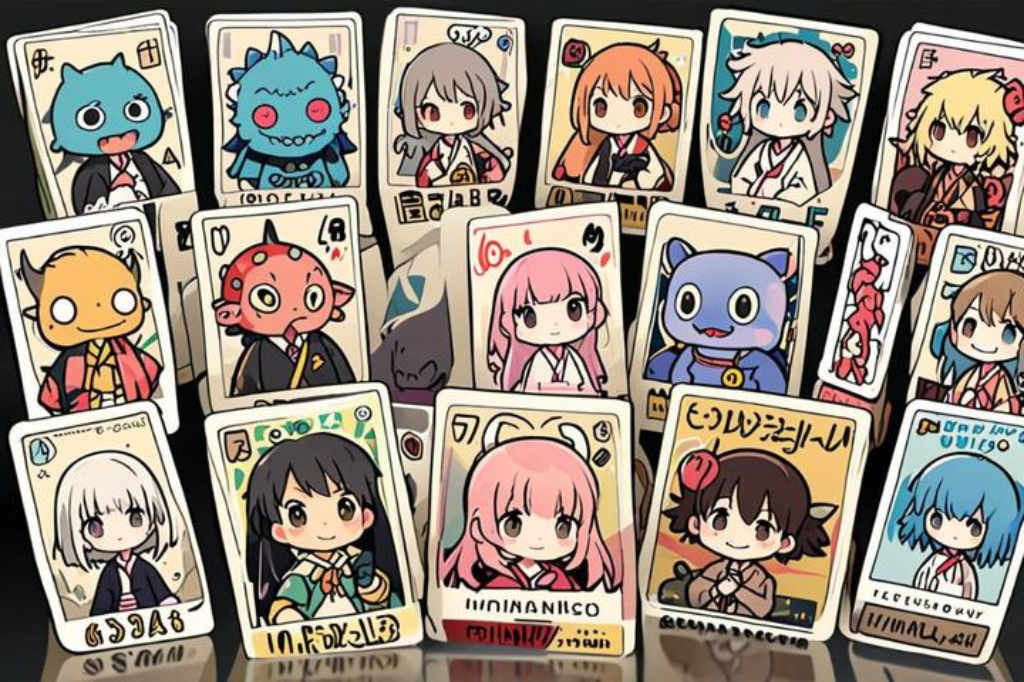
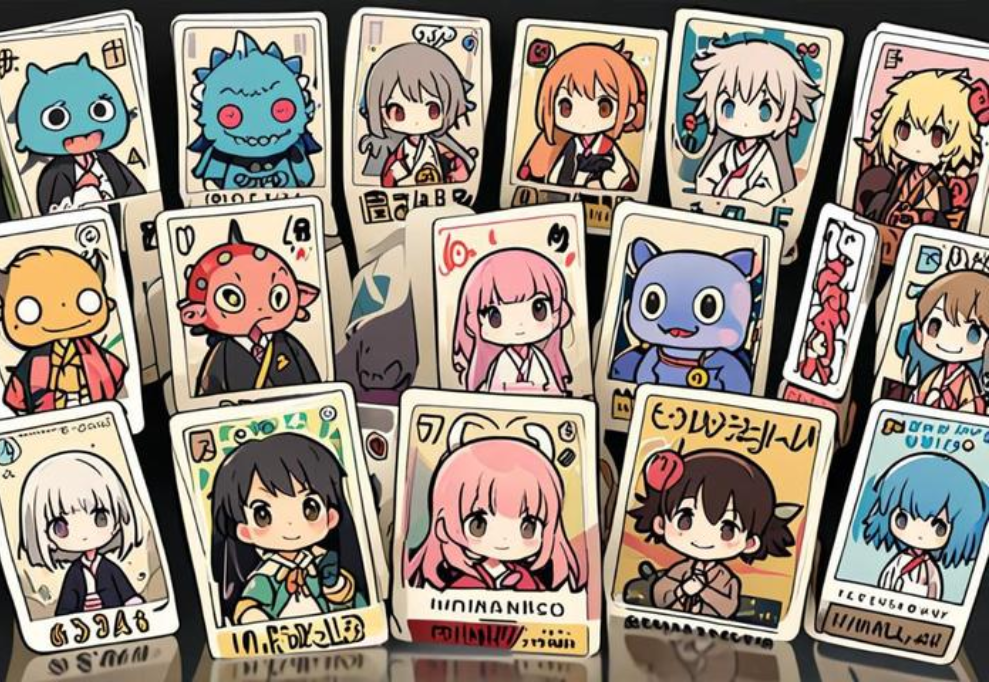
test

diff --git a/CNS2-nextui-app/pages/index.tsx b/CNS2-nextui-app/pages/index.tsx
@@ -29,7 +29,6 @@ import {
 import DefaultLayout from "@/layouts/default";
 
 import {
-  GithubIcon,
   UserSquareIcon,
   HeartFilledIcon,
   CameraIcon,
@@ -40,19 +39,23 @@ import {
   HelpDocsIcon,
 } from "@/components/icons";
 
+import {
+  termSelect,
+} from "@/components/select";
+
 export default function IndexPage() {
   return (
     <DefaultLayout>
 
       {/* ★コントラクト選択 */}
-      <section className="flex flex-row items-center justify-center gap-4 p-0 h-[40rem]">
+      <section className="flex flex-row items-center justify-center gap-1 p-0 h-[40rem]">
         <div className="flex-row bg-[url('/network_image.png')] bg-cover bg-center h-full w-full">
-          <div className="w-full h-full gap-6 grid grid-cols-12 grid-rows-3 p-8">
+          <div className="w-full h-full gap-6 grid grid-cols-12 grid-rows-3 gap-x-3 sm:gap-x-10">
 
             {/* 上段選択 */}
-            <div className="col-span-6 sm:col-start-2 sm:col-span-3"><Contract1Cord/></div>
-            <div className="col-span-6 sm:col-span-3"><Contract2Cord/></div>
-            <div className="col-span-0 sm:col-span-6"></div>
+            <div className="col-span-6 sm:col-start-2 sm:col-span-3 pt-12"><Contract1Cord/></div>
+            <div className="col-span-6 sm:col-span-3 pt-12"><Contract2Cord/></div>
+            <div className="col-span-0 sm:col-span-6 pt-12"></div>
 
             {/* コメントエリア */}
             <div className="col-span-12 sm:col-span-12 inline-block text-center bg-black/30">
@@ -130,7 +133,10 @@ export default function IndexPage() {
                   <HandshakeIcon/>
                   <span>取引量</span>
                 </div>
-                <div>
+
+                {/* 日付選択⇒通常時：タブ　sm時：ドロップダウン */}
+                {/* 通常時 */}
+                <div className="hidden sm:block">
                   <Tabs aria-label="Options" color="default" variant="solid">
                     <Tab
                       key="oneday"
@@ -146,6 +152,11 @@ export default function IndexPage() {
                     />
                   </Tabs>
                 </div>
+                {/* sm時 */}
+                <div className="block sm:hidden">
+                  <termSelect/>
+                </div>
+
                 <div className="flex flex-row-reverse items-end">
                   <Button startContent={<SearchIcon/>}>
                     一覧表示

diff --git a/CNS2-nextui-app/components/cards.tsx b/CNS2-nextui-app/components/cards.tsx
@@ -11,13 +11,13 @@ export const Contract1Cord = () => {
   return(
     <Card isFooterBlurred className="w-full h-[200px] animate-bounceY">
       <CardHeader className="absolute z-10 top-0 flex-col items-start">
-        <h4 className="text-white/90 font-medium text-2xl bg-black/60 rounded-full px-2">Trading Cards</h4>
+        <h4 className="text-white/90 font-medium text-center text-2xl bg-black/60 rounded-full px-2">Trading Cards</h4>
       </CardHeader>
       <Image
         isZoomed
         removeWrapper
         alt="Woman listing to music"
-        className="z-0 w-full h-auto scale-100 translate-y-0 object-cover"
+        className="z-0 w-full h-full scale-100 translate-y-0 object-cover"
         src="Contract_trc.png"
       />
       <CardFooter className="justify-between before:bg-white/10 border-white/20 border-1 overflow-hidden py-1 absolute before:rounded-xl rounded-large bottom-1 w-[calc(100%_-_8px)] shadow-small ml-1 z-10">
@@ -34,7 +34,7 @@ export const Contract2Cord = () => {
   return(
     <Card isFooterBlurred className="w-full h-[200px] animate-bounceY animation-delay-1000">
     <CardHeader className="absolute z-10 top-0 flex-col items-start">
-      <h4 className="text-white/90 font-medium text-2xl bg-black/60 rounded-full px-2">illustration</h4>
+      <h4 className="text-white/90 font-medium text-center text-2xl bg-black/60 rounded-full px-2">illustration</h4>
     </CardHeader>
     <Image
       isZoomed
@@ -57,7 +57,7 @@ export const Contract3Cord = () => {
   return(
     <Card isFooterBlurred className="w-full h-[200px] animate-bounceY animation-delay-2000">
     <CardHeader className="absolute z-10 top-0 flex-col items-start">
-      <h4 className="text-white font-medium text-2xl bg-black/60 rounded-full px-2">Photograph</h4>
+      <h4 className="text-white font-medium text-center text-2xl bg-black/60 rounded-full px-2">Photograph</h4>
     </CardHeader>
     <Image
       isZoomed

diff --git a/CNS2-nextui-app/components/select.tsx b/CNS2-nextui-app/components/select.tsx
@@ -1,0 +1,23 @@
+import {Select, SelectSection, SelectItem} from "@nextui-org/select";
+
+export const termSelect = () => {
+  const listDays = [
+    {key: "day", label: "１日"},
+    {key: "week", label: "１週"},
+    {key: "month", label: "１か月"},
+  ];
+
+  return(
+    <Select 
+      variant="underlined"
+      label="Select a term" 
+      className="min-w-xs" 
+    >
+    {listDays.map((listDays) => (
+      <SelectItem key={listDays.key}>
+        {listDays.label}
+      </SelectItem>
+    ))}
+  </Select>
+  )
+};
